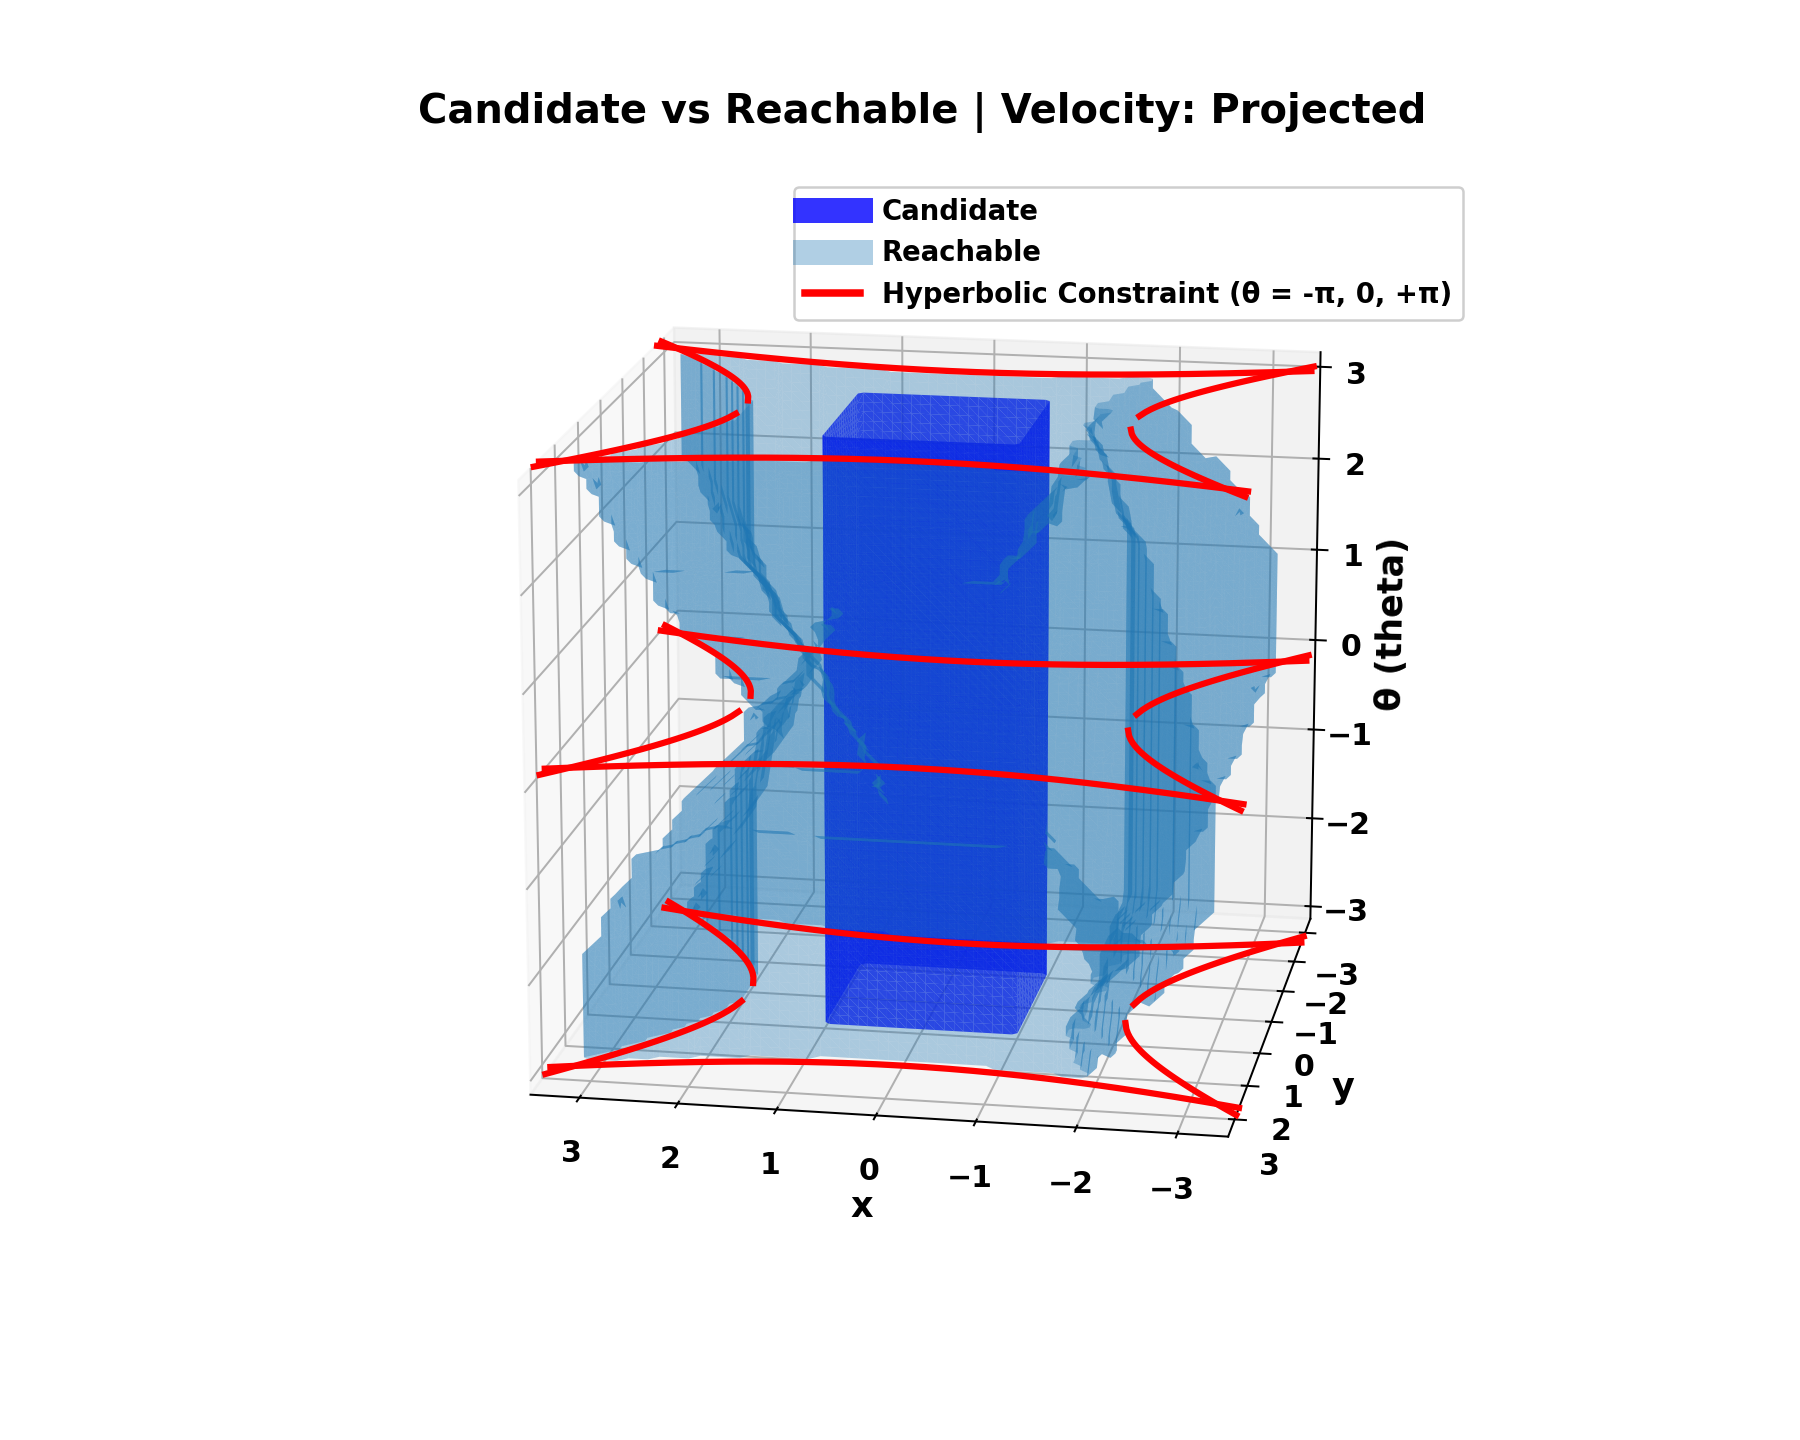
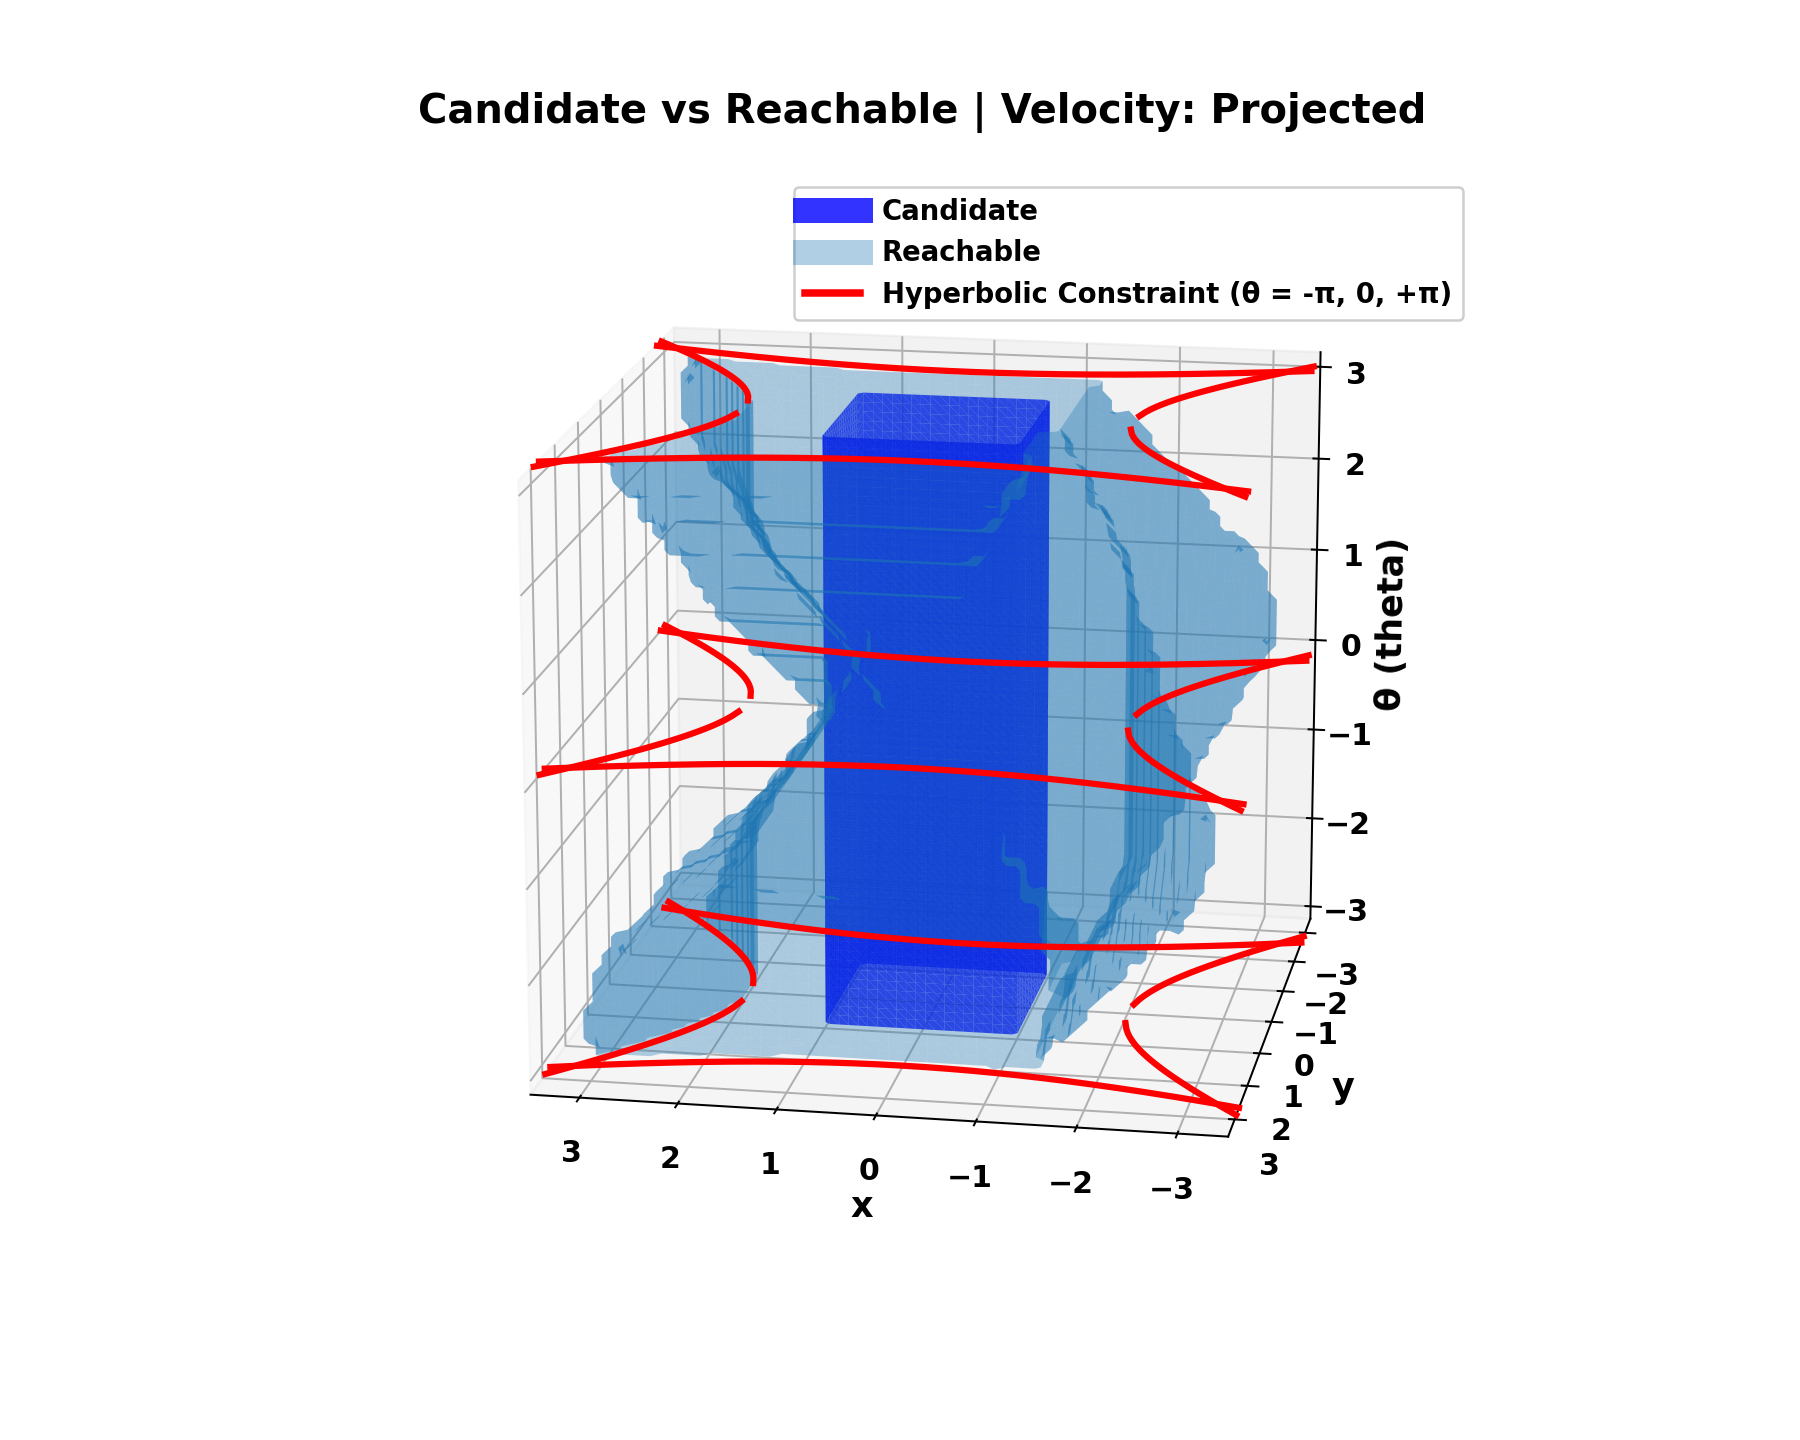
update files

Changed region(s): [[0.56, 0.25, 0.7156, 0.75], [0.3111, 0.2812, 0.4667, 0.6875]]

diff --git a/scripts/extract_iterations.py b/scripts/extract_iterations.py
@@ -1,0 +1,91 @@
+#!/usr/bin/env python3
+"""
+提取结果文件前20次迭代的信息
+"""
+
+import h5py
+import numpy as np
+from pathlib import Path
+
+def main():
+    result_file = Path("results/hyperbolic_demo_gpu.h5")
+    
+    if not result_file.exists():
+        print(f"错误: 文件不存在: {result_file}")
+        return 1
+    
+    with h5py.File(result_file, "r") as f:
+        # 检查是否有迭代数据
+        if "iterations" not in f:
+            print("错误: HDF5文件中没有找到 'iterations' 组")
+            return 1
+        
+        iters = f["iterations"]
+        
+        # 读取所有迭代数据
+        data = {
+            "iteration": np.array(iters["iteration"]),
+            "newly_reachable": np.array(iters["newly_reachable"]),
+            "newly_certified": np.array(iters["newly_certified"]),
+            "total_reachable": np.array(iters["total_reachable"]),
+            "total_certified": np.array(iters["total_certified"]),
+            "iteration_ms": np.array(iters["iteration_ms"]),
+            "prefix_build_ms": np.array(iters["prefix_build_ms"]),
+            "satisfaction_check_ms": np.array(iters["satisfaction_check_ms"]),
+            "reduction_ms": np.array(iters["reduction_ms"]),
+        }
+        
+        # 获取总迭代次数
+        n_total = len(data["iteration"])
+        n_show = min(20, n_total)
+        
+        print(f"文件: {result_file}")
+        print(f"总迭代次数: {n_total}")
+        print(f"显示前 {n_show} 次迭代\n")
+        
+        # 打印表头
+        header = f"{'迭代':>6} | {'新增可达':>10} | {'新增认证':>10} | {'累计可达':>10} | {'累计认证':>10} | {'迭代耗时(ms)':>14} | {'前缀构建':>10} | {'满足检查':>10} | {'输入归约':>10}"
+        separator = "-" * len(header)
+        print(separator)
+        print(header)
+        print(separator)
+        
+        # 打印前20次迭代的数据
+        for i in range(n_show):
+            iter_num = data["iteration"][i]
+            newly_rec = data["newly_reachable"][i]
+            newly_cert = data["newly_certified"][i]
+            total_rec = data["total_reachable"][i]
+            total_cert = data["total_certified"][i]
+            iter_time = data["iteration_ms"][i]
+            prefix_time = data["prefix_build_ms"][i]
+            sat_time = data["satisfaction_check_ms"][i]
+            red_time = data["reduction_ms"][i]
+            
+            print(f"{int(iter_num):>6} | {int(newly_rec):>10} | {int(newly_cert):>10} | {int(total_rec):>10} | {int(total_cert):>10} | {iter_time:>14.3f} | {prefix_time:>10.3f} | {sat_time:>10.3f} | {red_time:>10.3f}")
+        
+        print(separator)
+        
+        # 打印汇总信息
+        if n_show < n_total:
+            print(f"\n... 共 {n_total} 次迭代，仅显示前 {n_show} 次")
+        
+        # 打印统计信息
+        print(f"\n统计信息:")
+        print(f"  平均迭代耗时: {np.mean(data['iteration_ms']):.2f} ms")
+        print(f"  总认证状态数: {data['total_certified'][-1]}")
+        print(f"  总可达状态数: {data['total_reachable'][-1]}")
+        
+        # 读取摘要信息
+        if "summary/gpu" in f:
+            summary = f["summary/gpu"]
+            print(f"\nGPU求解摘要:")
+            print(f"  收敛状态: {bool(summary['converged'][()])}")
+            print(f"  消息: {summary['message'][()]}")
+            print(f"  抽象阶段: {float(summary['abstraction_ms'][()]):.2f} ms")
+            print(f"  求解阶段: {float(summary['solve_ms'][()]):.2f} ms")
+    
+    return 0
+
+if __name__ == "__main__":
+    exit(main())
